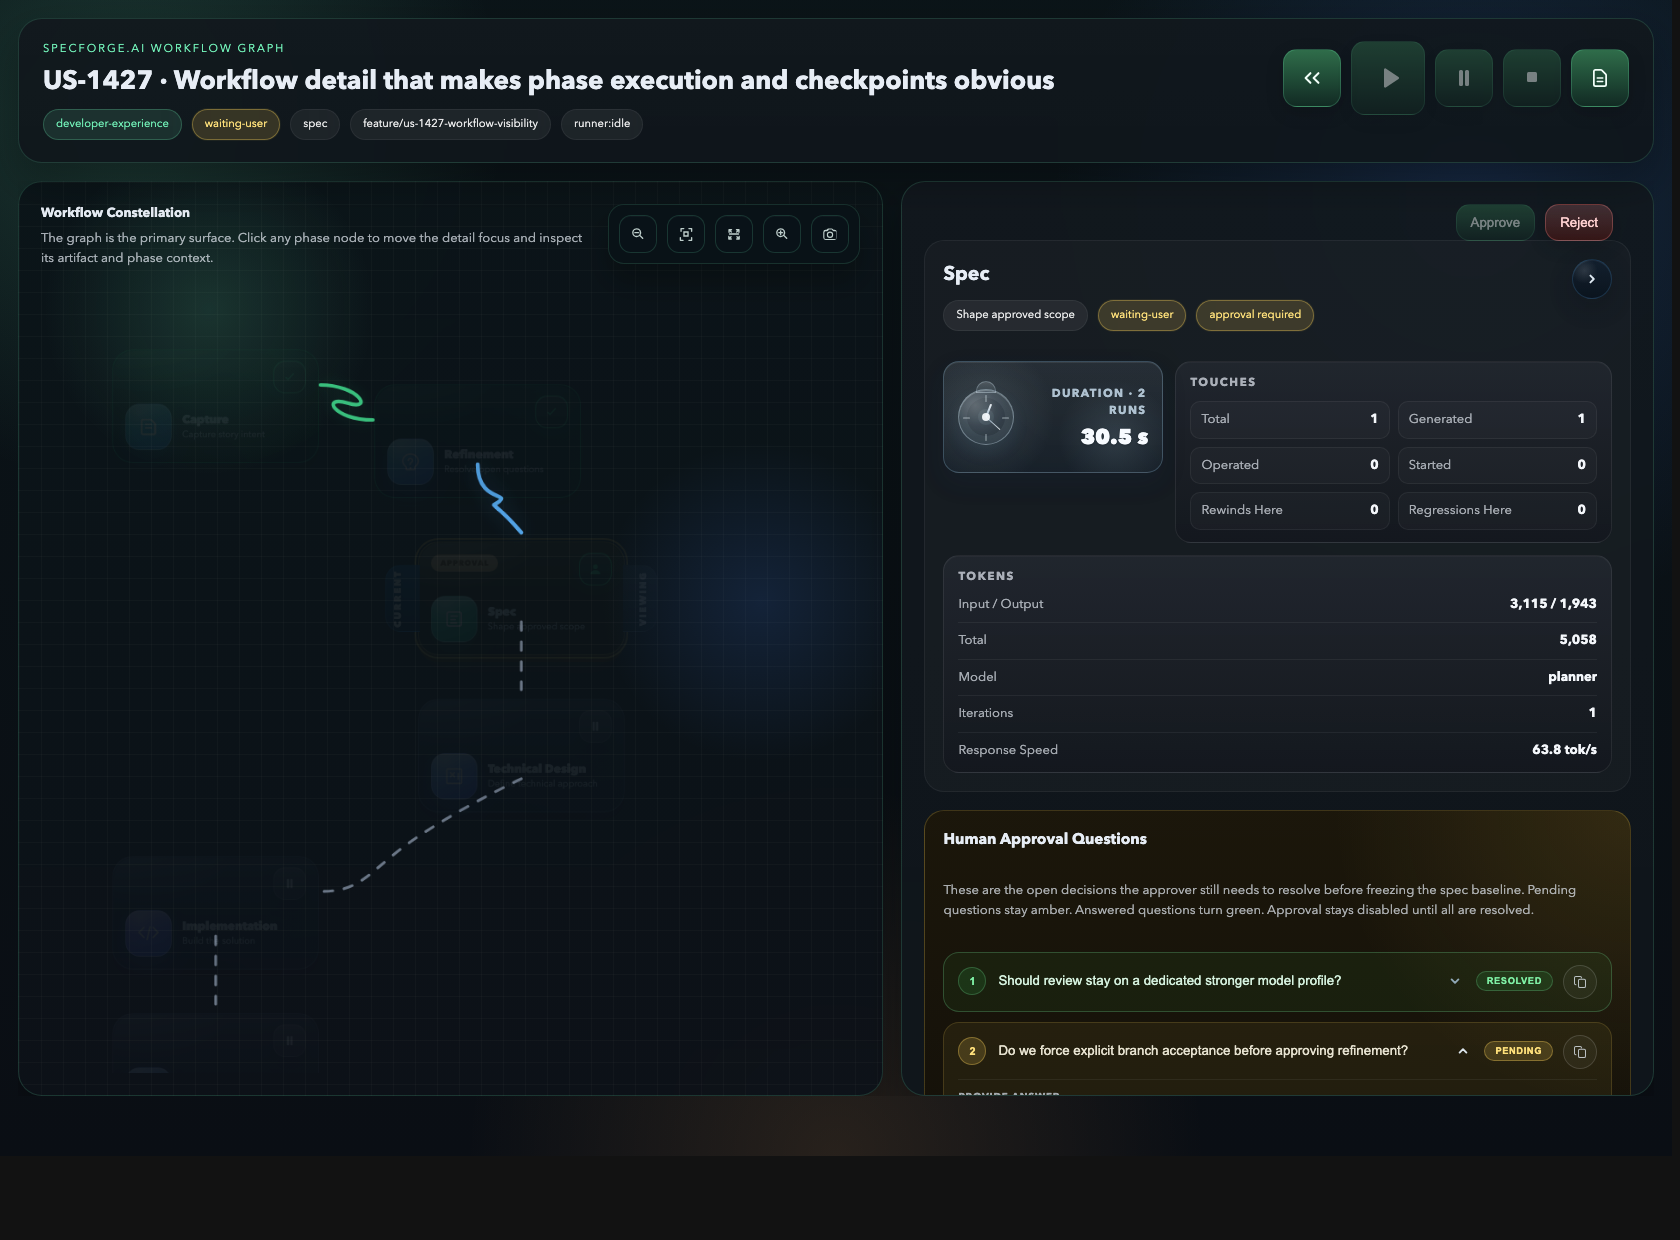
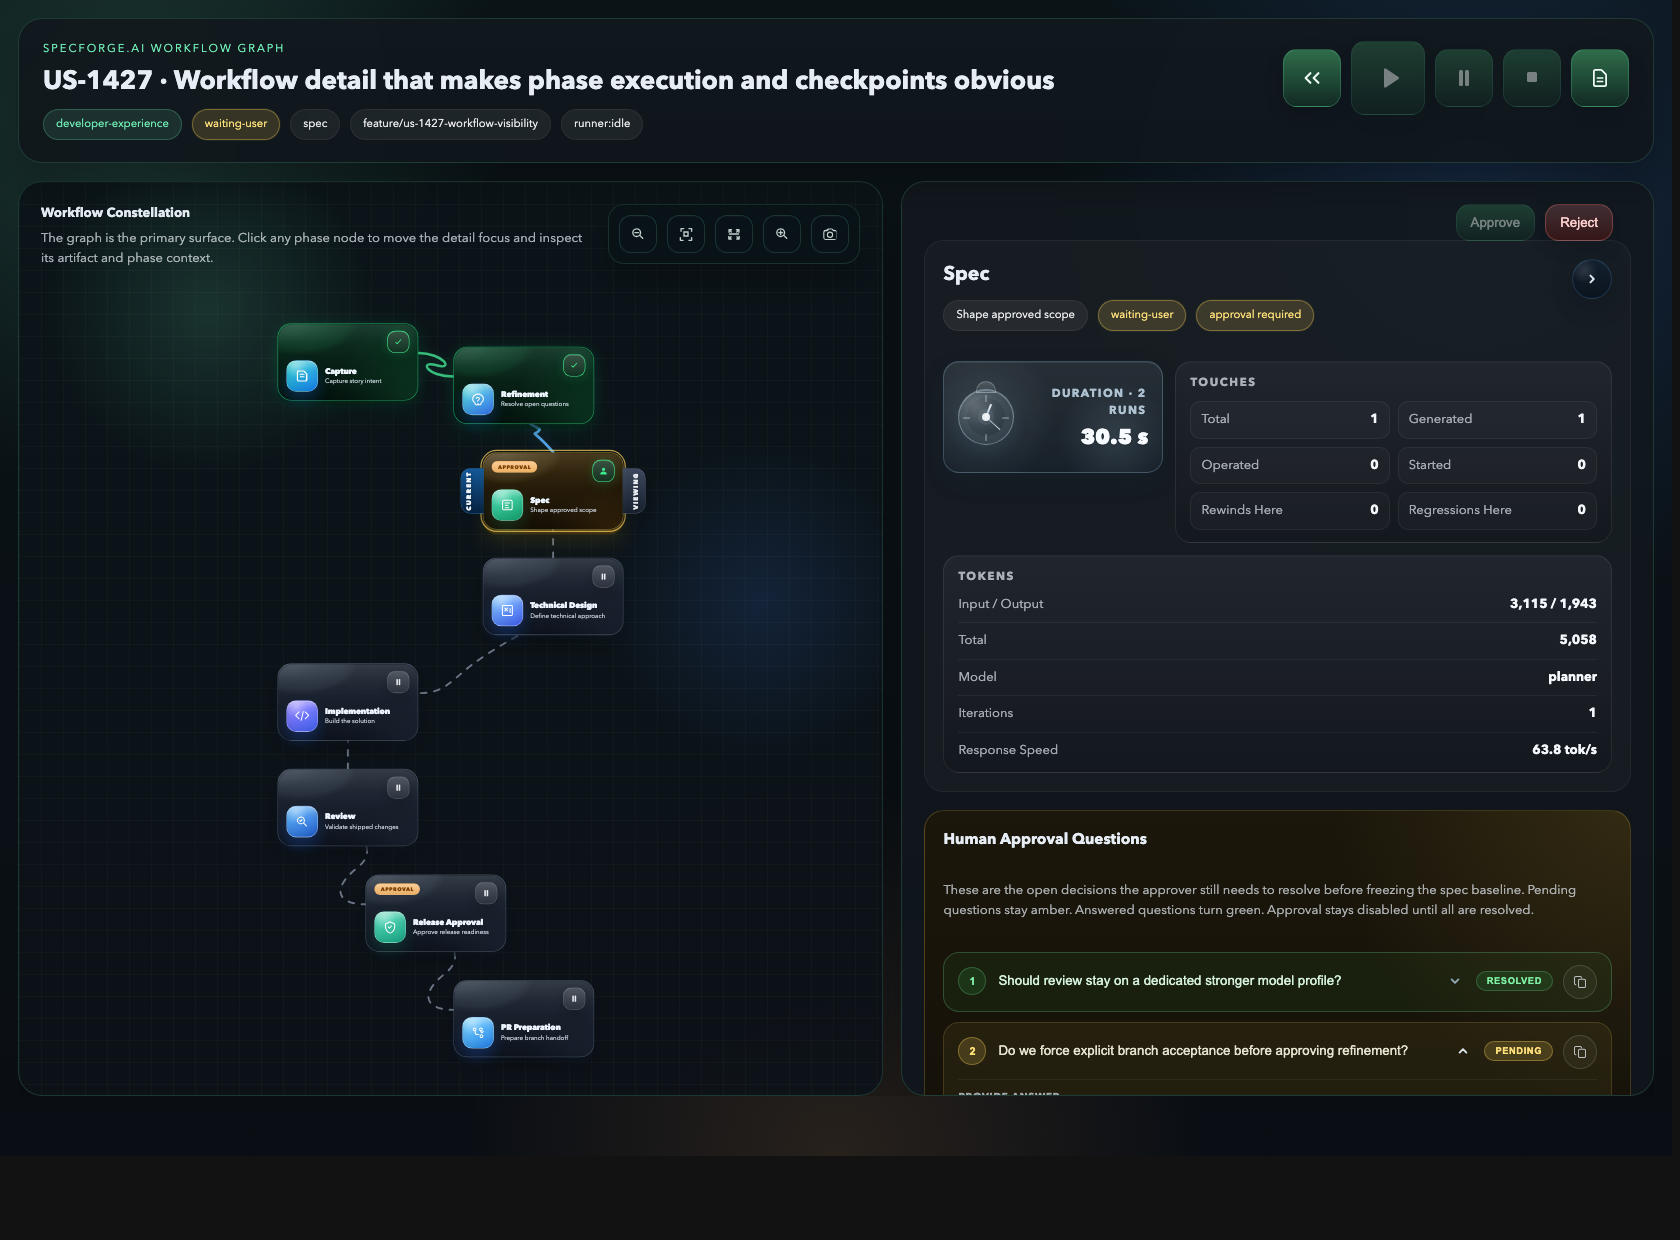
done bust stale workflow playback screenshot cache

diff --git a/tools/render-doc-screenshots.js b/tools/render-doc-screenshots.js
@@ -464,7 +464,7 @@ The workflow is blocked until the operator confirms where the model should surfa
     })
   },
   {
-    name: "workflow-playback-overlay",
+    name: "workflow-refinement-playback-overlay",
     windowSize: "1680,1180",
     ...buildWorkflow({
       workflow: {

diff --git a/README.md b/README.md
@@ -47,7 +47,7 @@ The refinement step is also designed as an operational screen, not just a modal 
 Playback is intentionally theatrical enough to communicate that the workflow is moving without becoming noisy. The execution overlay pushes the current run state above the graph instead of burying it in the timeline.
 
 <p align="center">
-  <img loading="lazy" alt="Workflow playback overlay showing the active execution state" src="./doc/images/workflow-playback-overlay.png" width="92%"/>
+  <img loading="lazy" alt="Workflow playback overlay showing refinement execution" src="./doc/images/workflow-refinement-playback-overlay.png" width="92%"/>
 </p>
 
 ## Features

diff --git a/doc/workflow-visual-states.md b/doc/workflow-visual-states.md
@@ -12,7 +12,7 @@ The current workflow UI already shows this state language clearly in practice.
 
 The playback overlay keeps active execution in the same visual system instead of inventing a separate status surface.
 
-![Workflow playback overlay during active execution](./images/workflow-playback-overlay.png)
+![Workflow playback overlay during refinement execution](./images/workflow-refinement-playback-overlay.png)
 
 ## Canonical Palette
 
